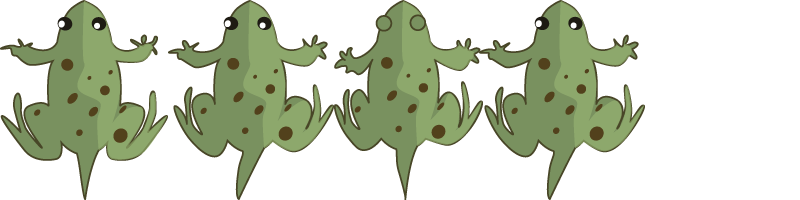
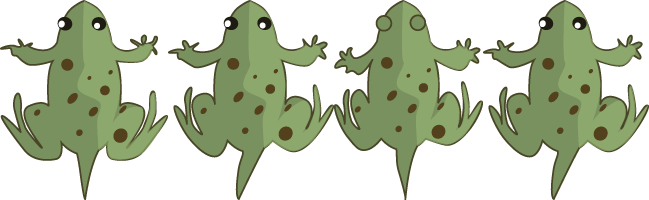
new art, working scoreboard

diff --git a/egads-austin-java/src/ScoreBoard.java b/egads-austin-java/src/ScoreBoard.java
@@ -3,20 +3,20 @@ import java.awt.image.*;
 
 public class ScoreBoard extends Entity{
 	//location information
-	private static final int BARLOCX = 0;
-	private static final int BARLOCY = 0;
+	private static final int BARLOCX = 20;
+	private static final int BARLOCY = 20;
 	private static final int NUMLOCX = 10;
-	private static final int NUMLOCY = 30;
-	private static final int BARWIDTH = 100;
+	private static final int NUMLOCY = 70;
+	private static final int BARWIDTH = 600;
 	private static final int BARHEIGHT = 20;
-	private static final Color BARCOL = Color.WHITE;
+	private static final Color BARCOL = new Color(0,0,0,.5f);
 	private int NUMWIDTH;
 	//image names
 	private static String[] numimgnames = new String[]{"art/numbers/0.png","art/numbers/1.png","art/numbers/2.png","art/numbers/3.png","art/numbers/4.png","art/numbers/5.png","art/numbers/6.png","art/numbers/7.png","art/numbers/8.png","art/numbers/9.png"};
 	private static String[] onstatenames = new String[]{"art/forevolutionbar/1egg-color.png","art/forevolutionbar/2hatched-color.png","art/forevolutionbar/3hindlegs-color.png","art/forevolutionbar/4almostfrog-color.png","art/forevolutionbar/5frog-color.png"};
 	private static String[] offstatenames = new String[]{"art/forevolutionbar/1egg-bw.png","art/forevolutionbar/2hatched-bw.png","art/forevolutionbar/3hindlegs-bw.png","art/forevolutionbar/4almostfrog-bw.png","art/forevolutionbar/5frog-bw.png"};
 	//how many points required to proceed to the next state
-	private static int[] toNextState = new int[]{100,100,100,100,100};
+	private static int[] toNextState = new int[]{10,100,100,100,100};
 	//the actual images
 	private BufferedImage[] numbs;
 	private BufferedImage[] onstates;
@@ -34,26 +34,27 @@ public class ScoreBoard extends Entity{
 	public void draw(Graphics2D g2){
 		int barw = (BARWIDTH*curSt)/4;
 		if(curSt<4){
-			barw+=(int)((BARWIDTH*((1-(1.0f*curPt)/toNextState[curSt])))/4);
+			barw = barw + (int)((BARWIDTH*(toNextState[curSt]-curPt)/4)/((1.0f) * toNextState[curSt]));
 		}
 		Color tmp = g2.getColor();
 		g2.setColor(BARCOL);
 		g2.fillRect(BARLOCX,BARLOCY,barw,BARHEIGHT);
 		g2.setColor(tmp);
+		
 		barw = BARWIDTH /4;
 		int cxl = BARLOCX;
 		for(int i = 0;i<=curSt;i++){
-			g2.drawImage(onstates[i],cxl,BARLOCY,null);
+			g2.drawImage(onstates[i],cxl,BARLOCY,onstates[i].getWidth()/4,onstates[i].getHeight()/4,null);
 			cxl += barw;
 		}
 		for(int i = curSt+1;i<offstates.length;i++){
-			g2.drawImage(offstates[i],cxl,BARLOCY,null);
+			g2.drawImage(offstates[i],cxl,BARLOCY,offstates[i].getWidth()/4,offstates[i].getHeight()/4,null);
 			cxl += barw;
 		}
 		int nxl = NUMLOCX;
 		for(int i = 0;i<digits.length;i++){
-			g2.drawImage(numbs[digits[i]],nxl,NUMLOCY,null);
-			nxl += NUMWIDTH;
+			g2.drawImage(numbs[digits[i]],nxl,NUMLOCY,numbs[digits[i]].getWidth()/4,numbs[digits[i]].getHeight()/4,null);
+			nxl += NUMWIDTH/4;
 		}
 	}
 	public void update(){
@@ -82,7 +83,7 @@ public class ScoreBoard extends Entity{
 		over += num;
 		curPt -= num;
 		if(curPt<=0){
-			//p.evolve();
+			p.evolve();
 			curSt += 1;
 			if(curSt>= toNextState.length){
 				curSt = 0;
